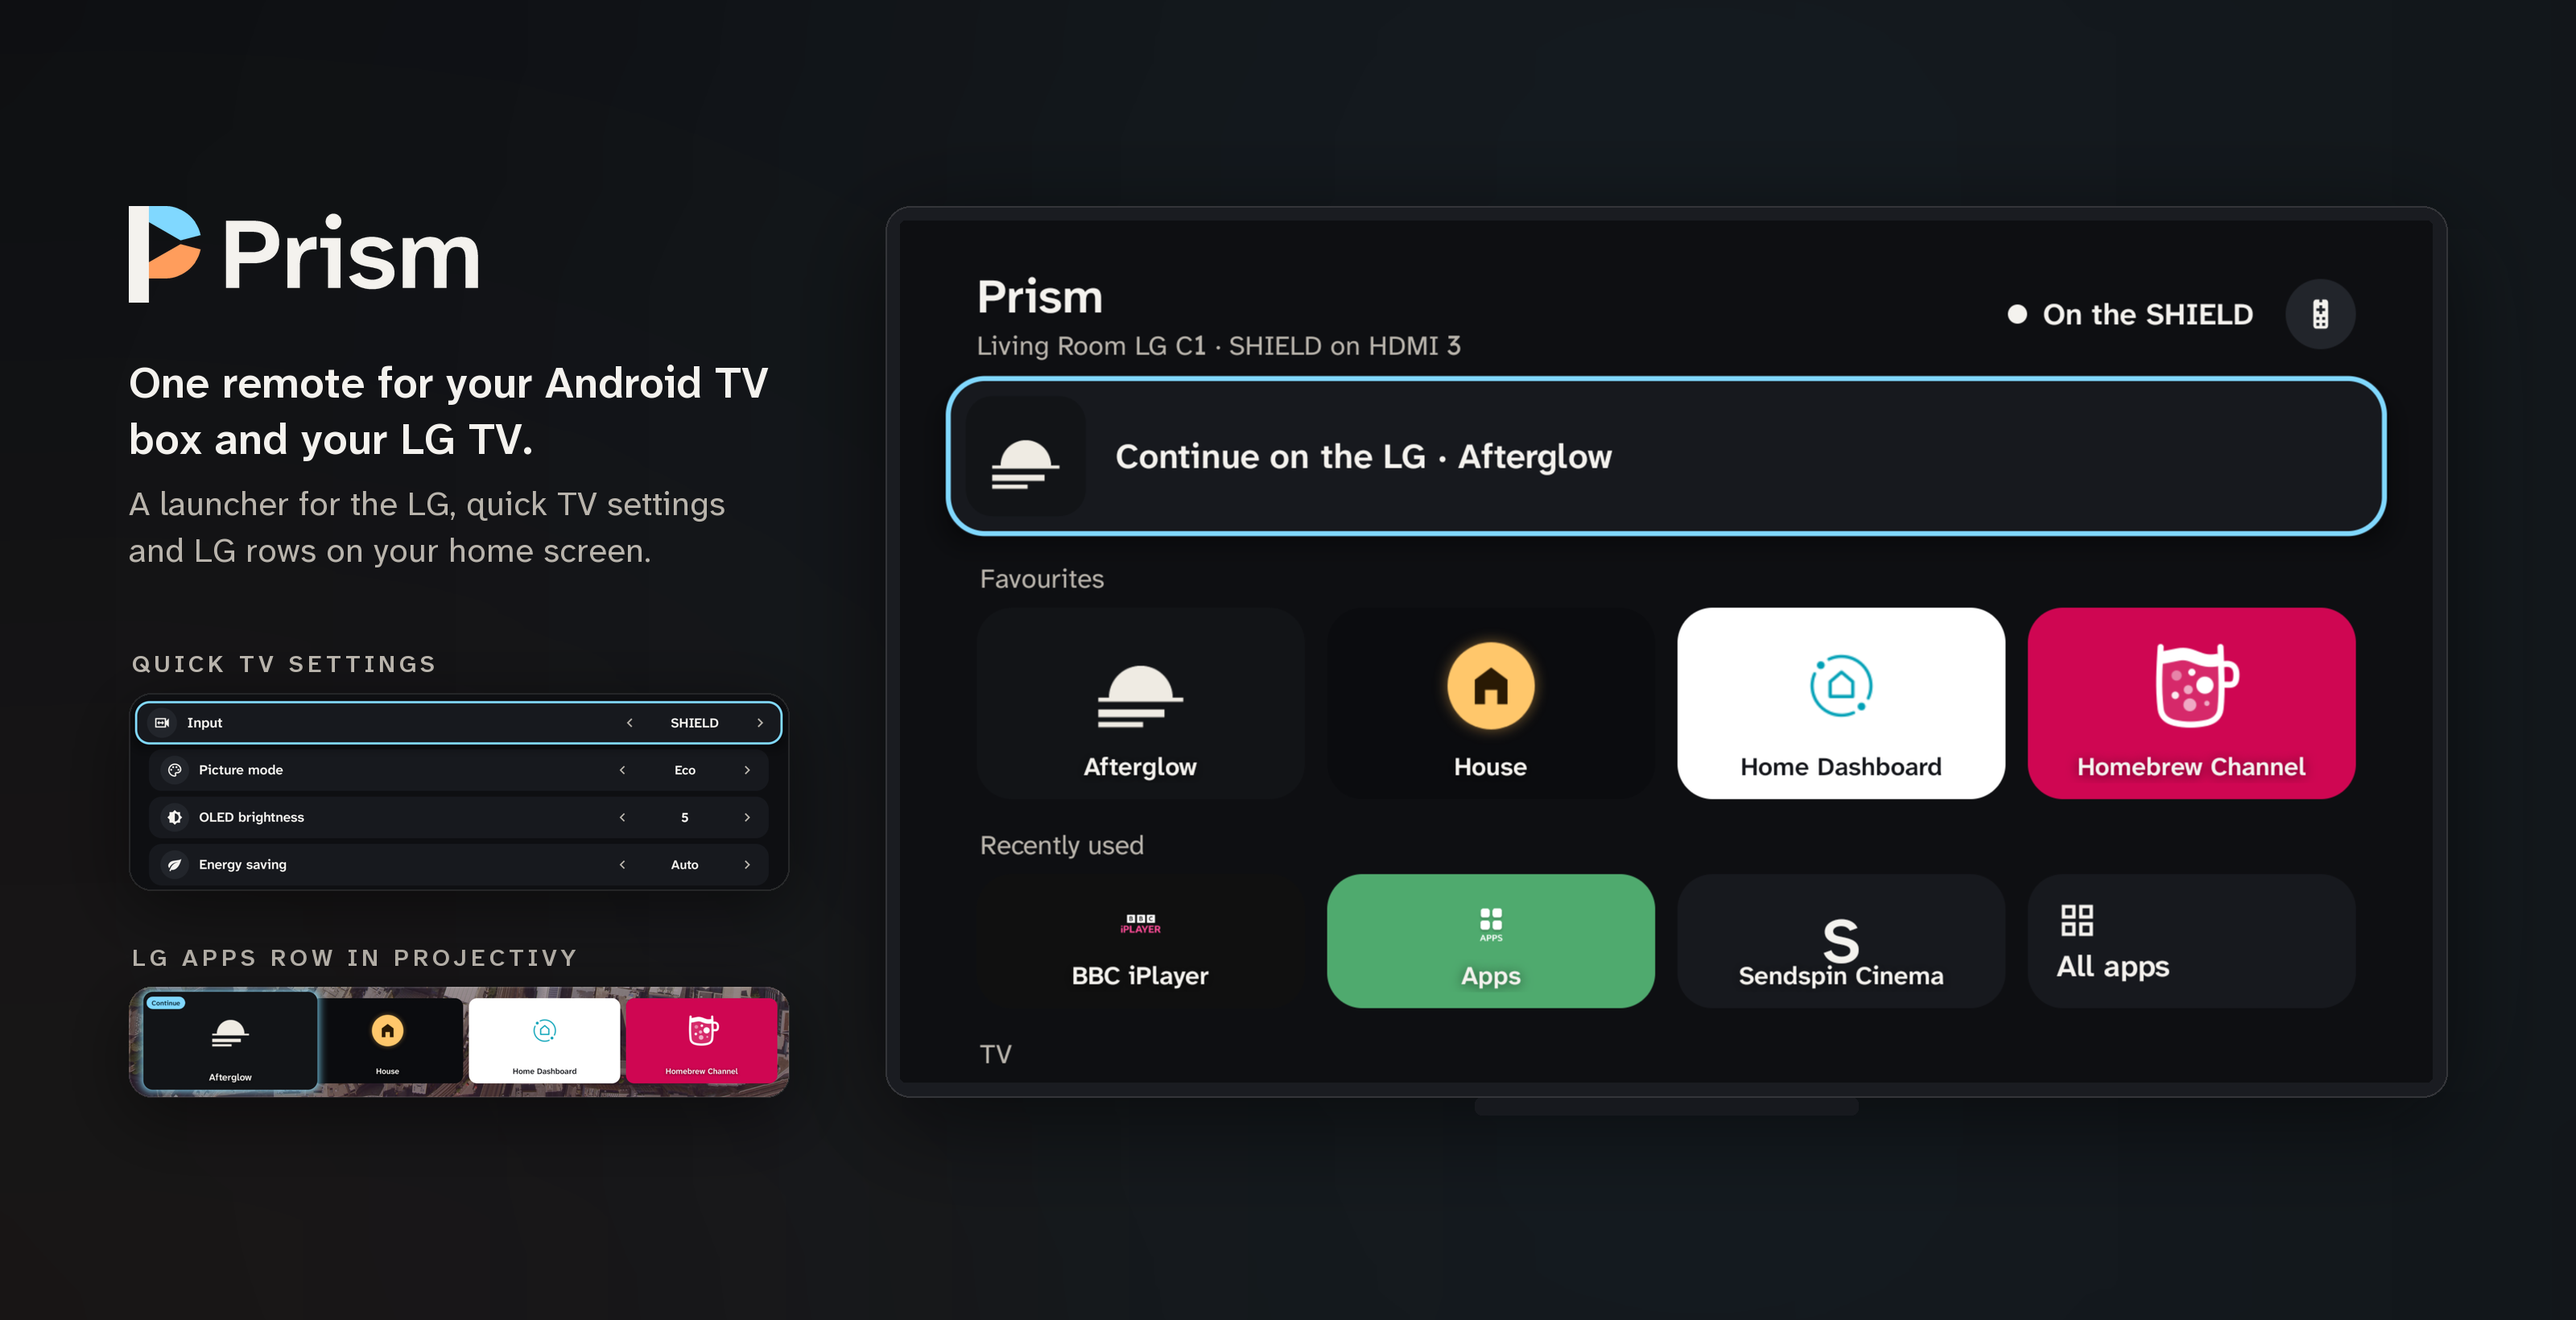
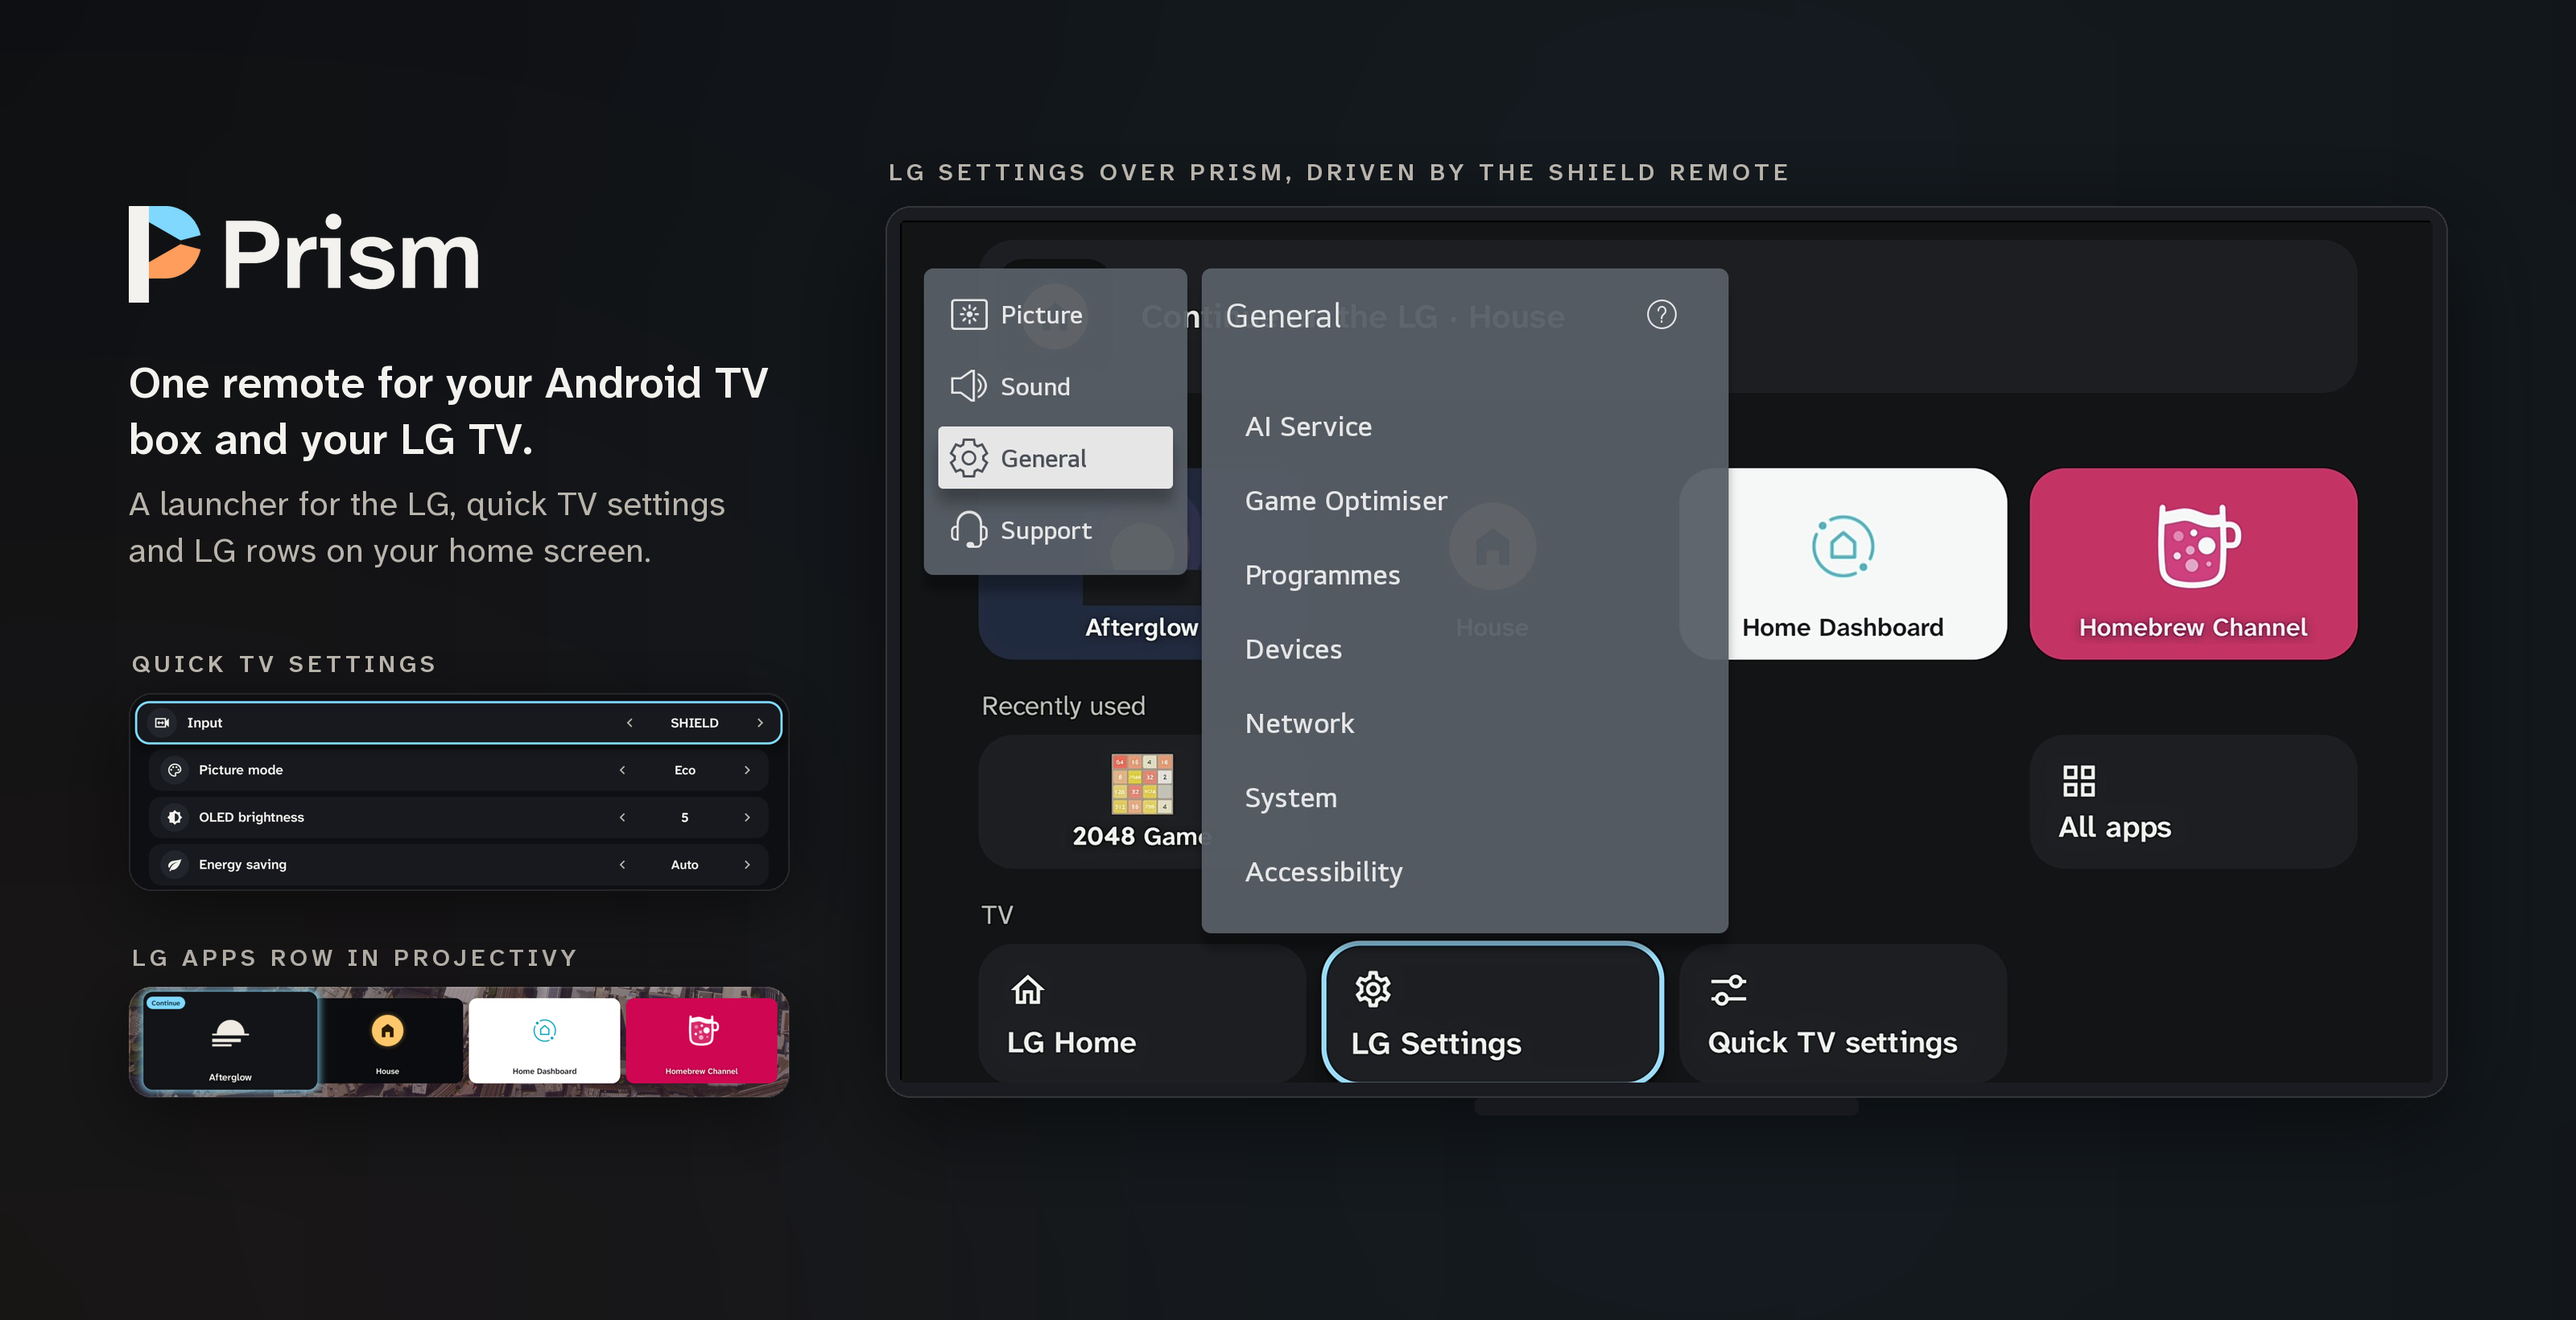
README: the TV's own screenshot of LG Settings over Prism (#3)
The hero's TV and the Screenshots section now show a screenshot the LG
took of itself (webOS's capture service) while LG Settings, opened from
Prism's launcher on the Shield, was over Prism. Prism stays there since
1.0.1. The status note says 1.0.1 runs on the Shield.

diff --git a/tools/hero.py b/tools/hero.py
@@ -1,8 +1,9 @@
 #!/usr/bin/env python3
 """Draw the README hero and the README screenshots from real screenshots of the app on an Android TV box.
 
-    docs/images/hero.png                         3200 × 1640: the launcher on a TV, Quick TV settings and the
-                                                 "LG apps" row beside it, with the lockup and tagline
+    docs/images/hero.png                         3200 × 1640: LG Settings over the launcher on a TV, Quick TV
+                                                 settings and the "LG apps" row beside it, with the lockup and
+                                                 tagline
     docs/images/screenshots/launcher.png         the launcher
     docs/images/screenshots/quick-settings.png   Quick TV settings
     docs/images/screenshots/home-rows.png        the "LG apps" row in Projectivy, cropped to the row
@@ -11,6 +12,13 @@ The screenshots are 1920 × 1080 PNGs taken on the box with `adb exec-out screen
 
     pip install pillow
     python3 tools/hero.py SCREENS_DIR    # holds launcher.png, quick.png and rows.png
+
+The TV on the hero shows docs/images/tv/lg-settings.jpg, a screenshot the LG took of itself while LG Settings was
+open over Prism on the box. On a rooted LG, webOS's capture service saves whatever is on screen, the box's input
+included:
+
+    luna-send -n 1 luna://com.webos.service.capture/executeOneShot \\
+        '{"path": "/tmp/capture.jpg", "method": "DISPLAY", "width": 1920, "height": 1080, "format": "JPEG"}'
 """
 import argparse
 from pathlib import Path
@@ -20,6 +28,7 @@ from PIL import Image, ImageDraw, ImageFilter, ImageFont
 from brand import BRAND, ROOT, hex_rgb, render, save_png
 
 OUT = ROOT / 'docs' / 'images'
+TV = OUT / 'tv'
 FONTS = ROOT / 'res' / 'font'
 
 NIGHT = hex_rgb('#0e0f12')
@@ -155,7 +164,7 @@ def captioned_panel(canvas, image, label, left, bottom, width):
     return top - 26 - 30
 
 
-def hero(launcher, quick, rows):
+def hero(settings, quick, rows):
     canvas = Image.new('RGB', (WIDTH, HEIGHT), NIGHT)
     glow(canvas, (2100, 820), 1100, SKY, 0.07)
     glow(canvas, (420, 1400), 700, AMBER, 0.045)
@@ -165,7 +174,9 @@ def hero(launcher, quick, rows):
     screen_w = WIDTH - 2 * MARGIN - column_w - gap - 36
     screen_h = round(screen_w * 9 / 16)
     top = (HEIGHT - screen_h) // 2 - 10
-    tv(canvas, launcher, MARGIN + column_w + gap + 18, top, screen_w)
+    screen_left = MARGIN + column_w + gap + 18
+    tv(canvas, settings, screen_left, top, screen_w)
+    caption(canvas, 'LG Settings over Prism, driven by the Shield remote', screen_left - 14, top - 50)
 
     below_text = text_column(canvas, MARGIN, top - 18, column_w)
     bottom = top + screen_h + 18
@@ -182,8 +193,9 @@ def main():
     launcher = Image.open(args.screens / 'launcher.png').convert('RGB')
     quick = Image.open(args.screens / 'quick.png').convert('RGB')
     rows = Image.open(args.screens / 'rows.png').convert('RGB')
+    settings = Image.open(TV / 'lg-settings.jpg').convert('RGB')
 
-    save_png(hero(launcher, quick.crop(QUICK_CROP), rows.crop(ROWS_HERO_CROP)), OUT / 'hero.png')
+    save_png(hero(settings, quick.crop(QUICK_CROP), rows.crop(ROWS_HERO_CROP)), OUT / 'hero.png')
     shots = OUT / 'screenshots'
     save_png(launcher, shots / 'launcher.png')
     save_png(quick, shots / 'quick-settings.png')

diff --git a/README.md b/README.md
@@ -1,5 +1,5 @@
 <p align="center">
-  <img src="docs/images/hero.png" alt="Prism on an NVIDIA Shield: the launcher with Continue on the LG, favourite LG apps and recently used apps, beside Quick TV settings and the LG apps row in Projectivy" width="100%">
+  <img src="docs/images/hero.png" alt="Prism on an NVIDIA Shield, captured by the TV: LG Settings open over the Prism launcher, driven by the Shield remote, beside Quick TV settings and the LG apps row in Projectivy" width="100%">
 </p>
 
 # Prism
@@ -14,9 +14,8 @@ without picking up the LG remote.
 **On a PS5?** [Prism for PS5](https://github.com/HaydenGriffin/prism-ps5) is the same remote and launcher as a
 homebrew title for a jailbroken PS5: the DualSense drives the LG while an LG app is on screen.
 
-> **Status:** an earlier private build of this app runs every day on an NVIDIA Shield with a rooted 2021 LG C1.
-> Version 1.0.0 (the new package name, the Remotes page and opt-in monitoring) has only run in the host tests so
-> far. Reports either way are very welcome.
+> **Status:** version 1.0.1 runs on an NVIDIA Shield with a rooted 2021 LG C1, where the pictures below were taken.
+> Other boxes and TVs haven't been tried yet, so reports either way are very welcome.
 
 ## What it does
 
@@ -37,7 +36,10 @@ homebrew title for a jailbroken PS5: the DualSense drives the LG while an LG app
 
 ## Screenshots
 
-From an NVIDIA Shield with a 2021 LG C1.
+From an NVIDIA Shield with a 2021 LG C1. First, a screenshot the TV took of itself: LG Settings, opened from
+Prism's launcher, over Prism.
+
+<img src="docs/images/tv/lg-settings.jpg" alt="LG Settings on the General page, open over the Prism launcher on the Shield, with the LG Settings tile still focused underneath" width="100%">
 
 | The launcher | Quick TV settings |
 |---|---|
@@ -193,7 +195,8 @@ python3 tools/build.py --release    # build/prism-<version>.apk, not debuggable,
 Keystores are git-ignored; never commit one.
 
 Other tools: `tests/emulator_smoke.py` runs the APK on an Android emulator against a fake Home Assistant;
-`tools/hero.py` draws the README hero and screenshots from screenshots taken on the box;
+`tools/hero.py` draws the README hero and screenshots from screenshots taken on the box and one the TV took of
+itself;
 `tools/brand.py` draws the launcher icon, TV banner and social preview from the SVGs in
 [`docs/brand/`](docs/brand) (written by `tools/brand_svg.py`; usage notes in its README); `tools/icons.mjs`
 regenerates the icons from Material Design Icons; `tools/fonts.py` regenerates `res/font` from the variable fonts.

diff --git a/docs/images/README.md b/docs/images/README.md
@@ -7,3 +7,7 @@ repository's Settings → Social preview.
 NVIDIA Shield (`adb exec-out screencap -p > launcher.png`): the launcher, Quick TV settings, and Projectivy's home
 screen with the "LG apps" row. Use made-up favourites and no real Home Assistant address, and keep the Home
 Assistant page (it blocks screenshots anyway) out of them.
+
+`tv/` holds screenshots the LG took of itself, so they show its own menus over the box: `tv/lg-settings.jpg` is LG
+Settings opened from Prism's launcher. They come from webOS's capture service on a rooted LG (see `tools/hero.py`);
+the hero's TV shows `tv/lg-settings.jpg`.
